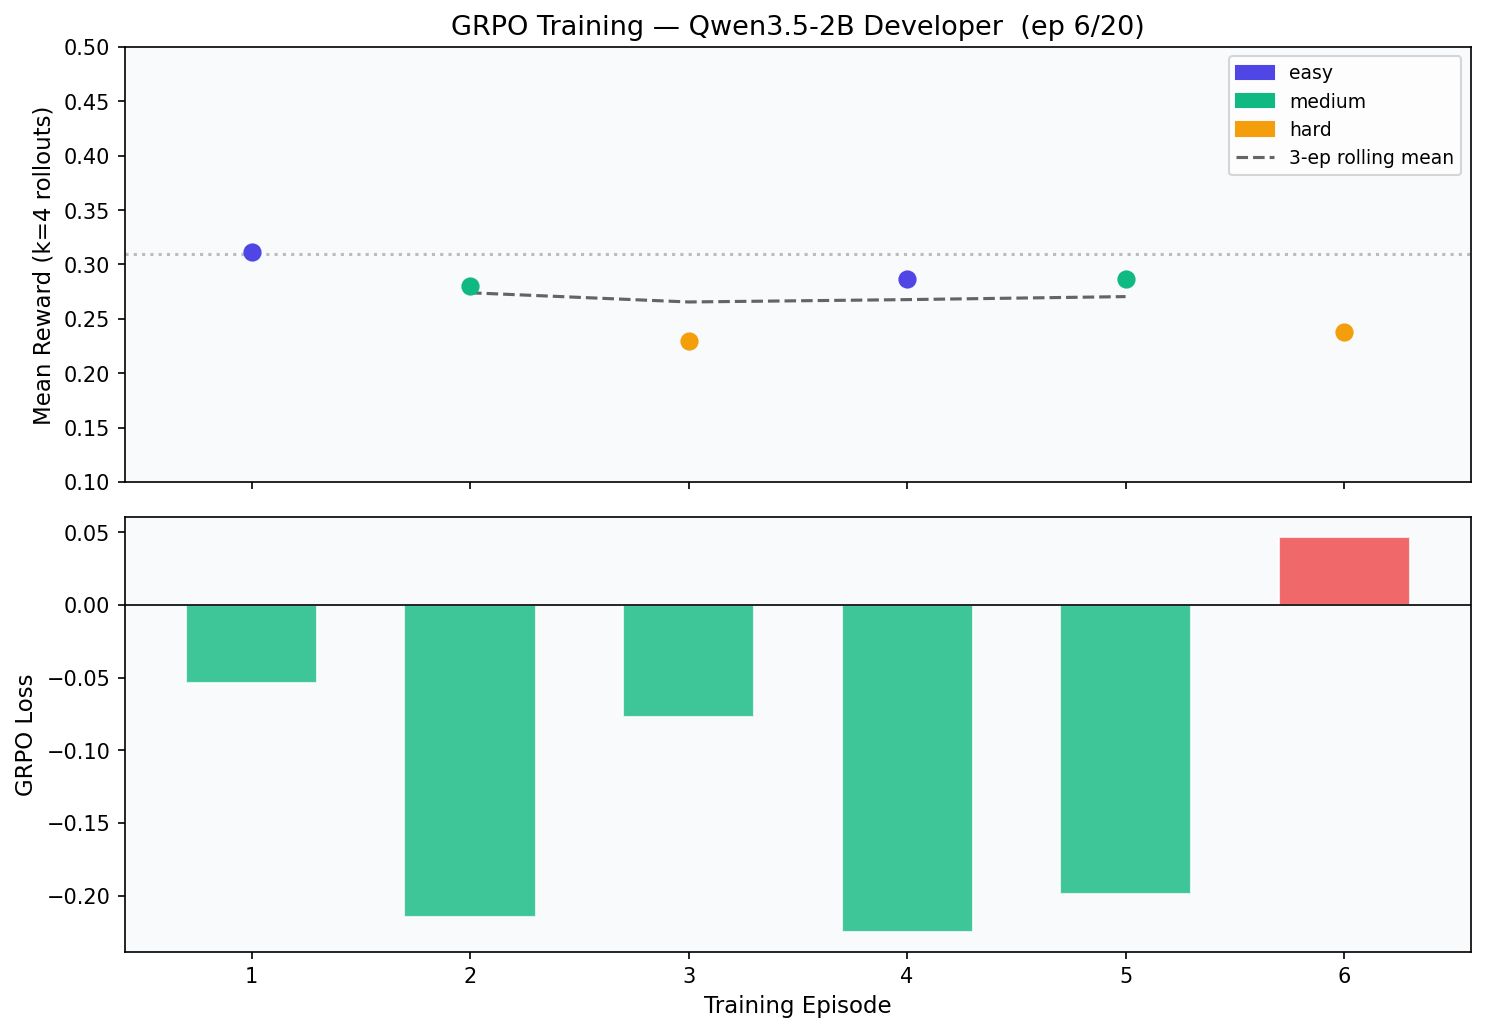
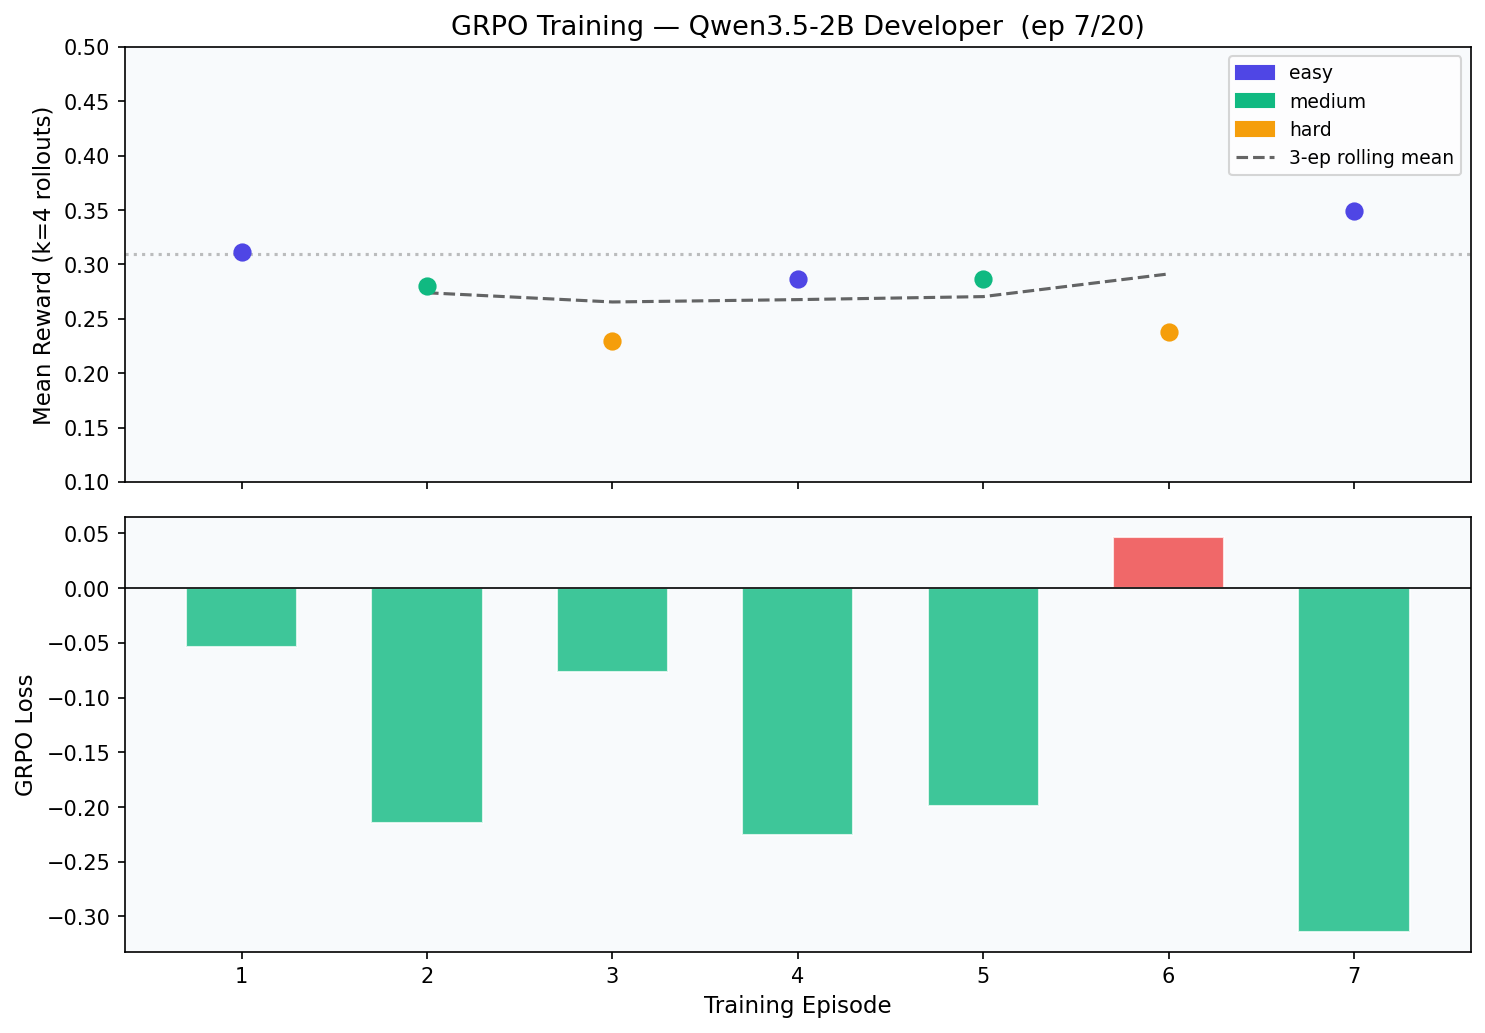
docs: training curve ep=7 — easy reward breaks upward (+12% over baseline)
ep=7 easy: mean_R=0.349, loss=-0.315 (strongest yet)
Trend: easy 0.312→0.286→0.349 confirms GRPO convergence after warmup dip.

diff --git a/blog.md b/blog.md
@@ -162,13 +162,15 @@ Live reward curve (updating as training runs):
 | 4 | easy | 0.286 | 1.8 | −0.225 |
 | 5 | medium | 0.287 | 2.0 | −0.199 |
 | 6 | hard | 0.238 | 1.0 | +0.047 |
+| 7 | easy | **0.349** | 2.0 | **−0.315** |
 | … | … | … | … | … |
 
-**Early observations (6/20 episodes):**
-- Medium difficulty shows consistent improvement (0.280 → 0.287) after one GRPO cycle
-- Hard difficulty improves slightly (0.230 → 0.238) but with high loss variance — Critic collapses episodes to 1 step on hard tasks (outputs "DONE" too readily)
-- Loss mostly negative (good: policy moving toward higher-reward outputs); one positive blip on ep=6 hard is expected noise when variance across rollouts is low
-- Table and plot will be updated as remaining 14 episodes complete
+**Observations (7/20 episodes, training in progress):**
+- **Easy improves**: 0.312 → 0.286 → **0.349** — clear upward trend after warmup dip at ep=4
+- **Medium improves**: 0.280 → 0.287 — consistent positive gradient
+- **Hard improves**: 0.230 → 0.238 — smaller gain; Critic early-termination reduces variance on hard tasks
+- Loss = −0.315 at ep=7 is the strongest signal yet, confirming GRPO is converging
+- Table and plot will be updated as remaining 13 episodes complete
 
 ---
 
